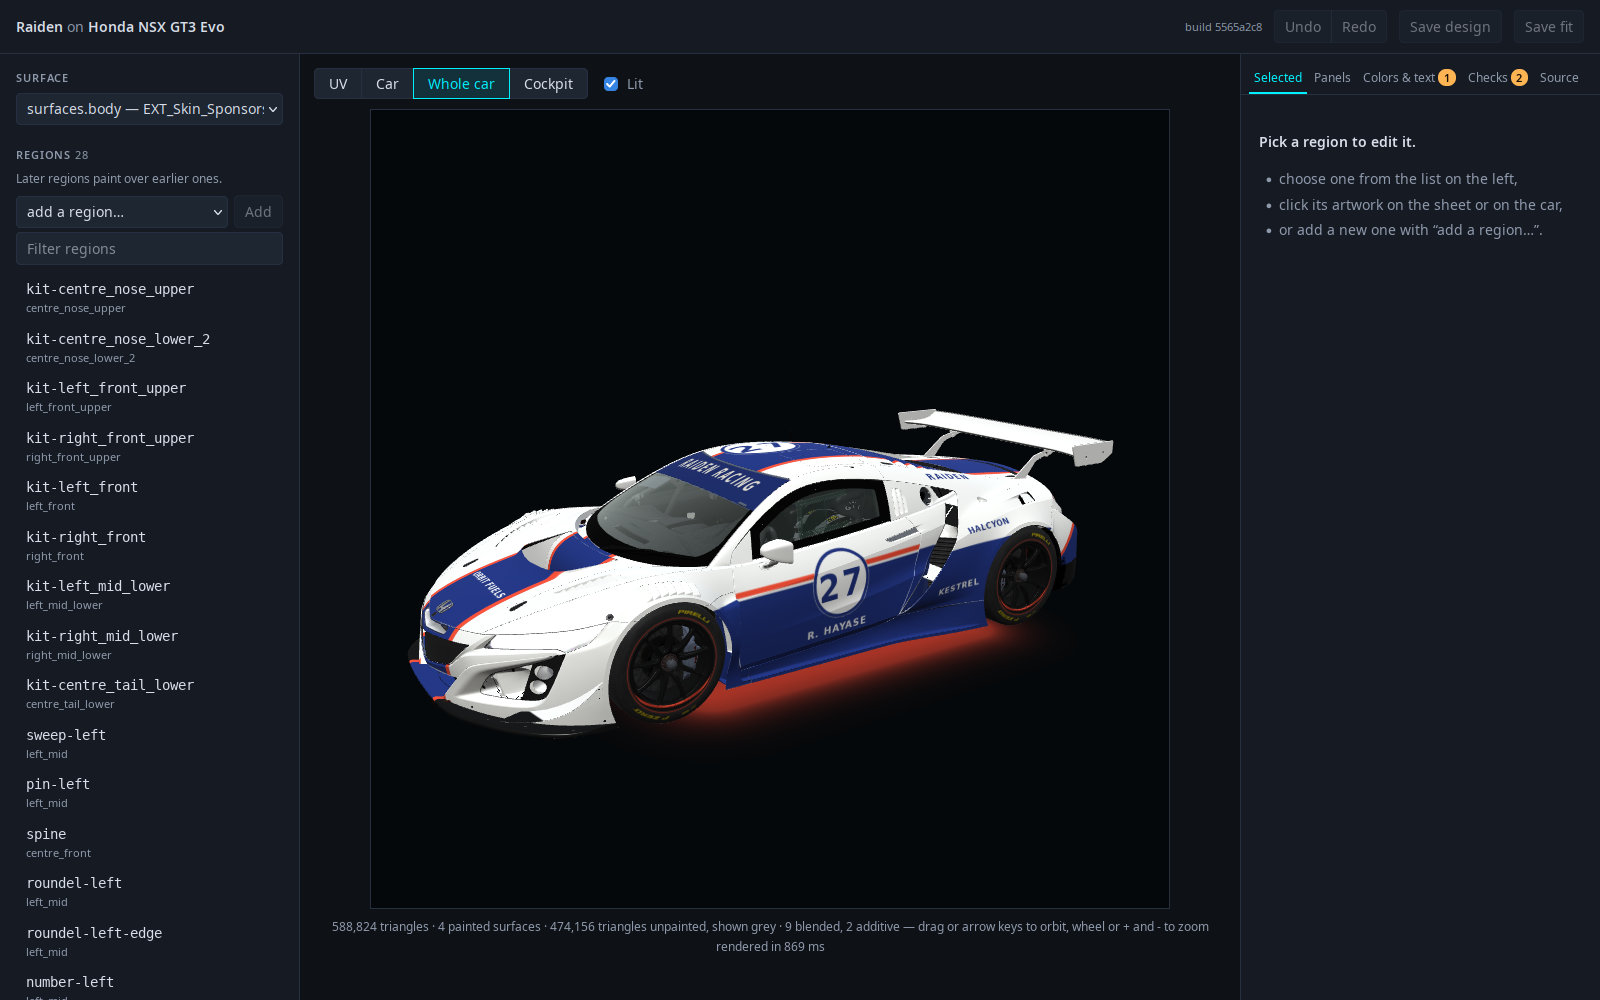
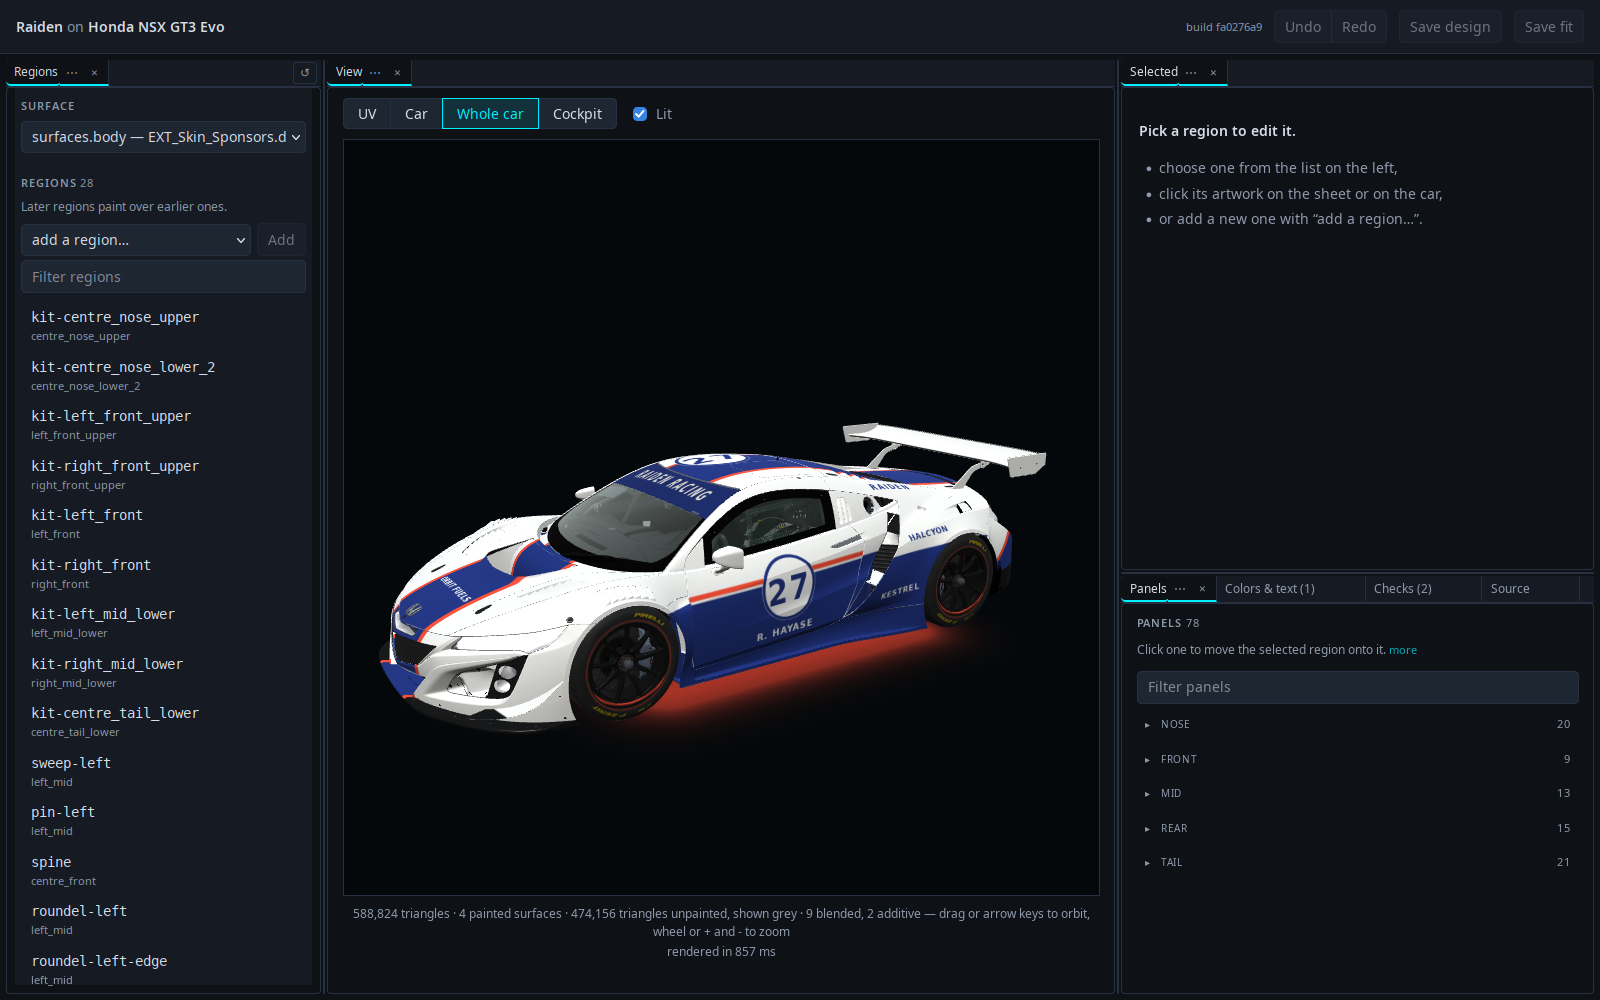
Tile the editor with mullion on a wide window with a mouse
The tabbed right-hand column still made moving a region to a panel a
three-step gesture: pick the region, switch to Panels with the inspector
out of sight, pick the panel. On a window with room, mullion now lays the
same elements out as panes — the regions, the view, and the inspector
stacked over Panels, Colors & text, Checks and Source — which a person can
split, stack, resize and close, and the layout is kept between visits.
Below mullion's threshold the page is the three columns as before, the
same elements put back under their own parents.

The side panes are hidden by an attribute of their own rather than
`hidden`, which would have left a tiled pane showing nothing. Counts move
into the panes' titles as well as the untiled tab bar. The 3D view redraws
when its canvas resizes rather than only when the window does, since a
divider resizes it while the window stays put.

Headless Firefox reports no pointer, so the browser suite was driving the
untiled page; its profile now reports a mouse, so the suite drives what a
desktop gets, and the one test about the untiled column asks for it with
?panes=0. mullion is served from node_modules through the import map like
the other browser dependencies, and AGENTS.md counts it.

diff --git a/src/ui/app.js b/src/ui/app.js
@@ -19,6 +19,7 @@ import { createViewer, openingView, unpack, unpackModel } from './view3d.js';
 import { treatmentOptions } from './fields.js';
 import { paletteUses, tokenUses, danglingNames, eachRegion, interpolates, isAColor } from './uses.js';
 import { applyDesignOp, applyFitOp, opSetConstraint, placedAt } from './ops.js';
+import { createPanes } from 'mullion';
 
 const $ = (s) => document.querySelector(s);
 const VIEW = 1000;
@@ -176,6 +177,32 @@ $('.sidetabs').onclick = (e) => {
   if (tab) showSide(tab.dataset.side);
 };
 showSide(state.side);
+
+// Tiled, on a window with room for it: the same elements, moved into panes a
+// person can split, stack and resize, and put back as the three columns above
+// when the window narrows. Not under the tests' fake DOM, which has no media
+// queries to ask.
+state.panes = globalThis.matchMedia ? createPanes({
+  root: $('#panes'),
+  catalog: ['left', 'canvas', 'pane-selected', 'pane-panels', 'pane-colors', 'pane-checks', 'pane-source'],
+  mode: 'edit',
+  on: true,
+  store: 'liverykit:panes',
+  version: 1,
+  reset: '↺',
+  // The inspector over the other side panes rather than stacked with them,
+  // so the panel a region is moved to can be picked with the region in view.
+  layouts: {
+    edit: {
+      dir: 'row', size: [0.2, 0.5, 0.3], kids: [
+        { tabs: ['left'] },
+        { tabs: ['canvas'] },
+        { dir: 'col', size: [0.55, 0.45], kids: [
+          { tabs: ['pane-selected'] },
+          { tabs: ['pane-panels', 'pane-colors', 'pane-checks', 'pane-source'] }] }],
+    },
+  },
+}) : null;
 
 // Hovering a panel shows where it is — on the sheet and on the car — WITHOUT
 // selecting anything or touching the fit. Finding out where `centre_mid_lower_4`
@@ -681,7 +708,7 @@ async function refresh() {
     // stopped responding to everything.
     status(`render failed: ${e.message}`);
     $('#notes').innerHTML = `<div class="note">! ${esc(e.message)}</div>`;
-    $('#notecount').textContent = '1';
+    tally('pane-checks', 'Checks', $('#notecount'), 1);
     return;
   }
   state.placed = out.placed;
@@ -709,7 +736,7 @@ async function refresh() {
   $('#notes').innerHTML = notes.map((n) => `<div class="note">! ${esc(n.text)}</div>`).join('');
   // Counted on the tab, since they are in a tab: nothing that went wrong may
   // be out of sight without a sign that it is there.
-  $('#notecount').textContent = notes.length ? String(notes.length) : '';
+  tally('pane-checks', 'Checks', $('#notecount'), notes.length);
   // Derived from the stacks rather than trusted from the markup, so there is
   // one source of truth for whether there is anything to go back to.
   updateUndoButtons();
@@ -918,11 +945,10 @@ function drawIdentity() {
 function drawDangling() {
   const el = $('#dangling');
   if (!el) return;
-  $('#danglingcount').textContent = '';
-  if (state.lossy.length) { el.innerHTML = ''; return; }
+  if (state.lossy.length) { el.innerHTML = ''; tally('pane-colors', 'Colors & text', $('#danglingcount'), 0); return; }
 
   const { colors, tokens } = danglingNames(state.design, state.treatments);
-  if (colors.length + tokens.length) $('#danglingcount').textContent = String(colors.length + tokens.length);
+  tally('pane-colors', 'Colors & text', $('#danglingcount'), colors.length + tokens.length);
   el.innerHTML = [
     ...tokens.map((t) => `<div class="note">Nothing gives <code>${esc(t.token)}</code> a value, so
       ${esc(t.by.join(', '))} ${t.by.length > 1 ? 'render' : 'renders'} with a hole where it should be.</div>`),
@@ -1302,20 +1328,49 @@ function cssEscape(s) {
 export function selectRegion(id) {
   if (!id) return;
   state.selected = id;
-  // Not from the panel list: there the next click is the panel to move it to.
-  if (state.side !== 'panels') showSide('selected');
+  revealInspector();
   drawRegions();
   drawOverlay();
   drawInspector();
   drawPanels();
 }
 
+// An attribute of our own rather than `hidden`: tiled, every one of these is a
+// pane, and one hidden for being the column's tab not in front would be a
+// pane showing nothing.
 function showSide(name) {
   state.side = name;
   for (const n of ['selected', 'panels', 'colors', 'checks', 'source']) {
     $(`#side-${n}`).setAttribute('aria-selected', String(n === name));
-    setHidden($(`#pane-${n}`), n !== name);
+    if (n === name) $(`#pane-${n}`).removeAttribute('data-side-off');
+    else $(`#pane-${n}`).setAttribute('data-side-off', '');
   }
+  state.panes?.present(`pane-${name}`, { focus: false });
+}
+
+/**
+ * Bring the inspector into view after a pick — but not over the panel list.
+ * Picking a region and then the panel to move it to is one gesture, and
+ * covering the list between the two clicks breaks it.
+ */
+function revealInspector() {
+  const p = state.panes;
+  if (!p?.tiled()) {
+    if (state.side !== 'panels') showSide('selected');
+    return;
+  }
+  const leafOf = (node, id) => (node.tabs
+    ? (node.tabs.includes(id) ? node : null)
+    : node.kids.map((k) => leafOf(k, id)).find(Boolean) ?? null);
+  const layout = p.layout();
+  const together = layout && leafOf(layout, 'pane-selected') === leafOf(layout, 'pane-panels');
+  if (!(together && p.visible('pane-panels'))) p.present('pane-selected', { focus: false });
+}
+
+/** A count on a side pane's tab, in the column's tab bar and in the tiler's. */
+function tally(pane, title, el, n) {
+  el.textContent = n ? String(n) : '';
+  state.panes?.setTitle(pane, n ? `${title} (${n})` : title);
 }
 
 function drawOverlay() {

diff --git a/src/ui/index.html b/src/ui/index.html
@@ -3,6 +3,7 @@
 <head>
 <meta charset="utf-8">
 <title>liverykit — fit</title>
+<link rel="stylesheet" href="/vendor/mullion/panes.css">
 <link rel="stylesheet" href="/style.css">
 <!--
   So that `uses.js` can write `import { colord } from 'colord'` and have it mean
@@ -15,7 +16,8 @@
   "imports": {
     "colord": "/vendor/colord/index.mjs",
     "colord/plugins/names": "/vendor/colord/plugins/names.mjs",
-    "ac-dds/decode": "/vendor/ac-dds/decode.js"
+    "ac-dds/decode": "/vendor/ac-dds/decode.js",
+    "mullion": "/vendor/mullion/panes.js"
   }
 }
 </script>
@@ -41,8 +43,14 @@
     <button id="proposal-discard" class="proposal-btn discard">Discard</button>
   </div>
 
+  <!-- Where mullion draws the layout on a wide window with a mouse. Each
+       data-pane below is moved into it, ids and all, and put back under its
+       own parent when the window narrows: the three columns are what you get
+       then, and they are the same elements. -->
+  <div id="panes"></div>
+
   <main>
-    <aside id="left">
+    <aside id="left" data-pane data-pane-title="Regions" data-pane-min="220">
       <h2>Surface</h2>
       <select id="surface"></select>
 
@@ -56,7 +64,7 @@
       <ul id="regions"></ul>
     </aside>
 
-    <section id="canvas">
+    <section id="canvas" data-pane data-pane-title="View" data-pane-min="320">
       <div class="tabs">
         <span class="group" role="group" aria-label="View">
           <button id="tab-uv" class="tab on">UV</button>
@@ -105,11 +113,11 @@
         <button id="side-source" role="tab" data-side="source">Source</button>
       </nav>
 
-      <section id="pane-selected" class="pane" role="tabpanel">
+      <section id="pane-selected" class="sidepane" role="tabpanel" data-pane data-pane-title="Selected" data-pane-min="240">
         <div id="inspector" class="empty"></div>
       </section>
 
-      <section id="pane-panels" class="pane" role="tabpanel" hidden>
+      <section id="pane-panels" class="sidepane" role="tabpanel" data-pane data-pane-title="Panels" data-pane-min="240" data-side-off>
         <h2>Panels <span id="panelcount" class="muted"></span></h2>
         <details class="hint"><summary>Click one to move the selected region onto it.</summary>
           Hover to see where it is. Tags come from the model — side, section,
@@ -118,7 +126,7 @@
         <ul id="panels"></ul>
       </section>
 
-      <section id="pane-colors" class="pane" role="tabpanel" hidden>
+      <section id="pane-colors" class="sidepane" role="tabpanel" data-pane data-pane-title="Colors &amp; text" data-pane-min="240" data-side-off>
         <h2>Palette</h2>
         <details class="hint"><summary>Named colors, used by name.</summary>
           Changing one changes everything using it, and renaming one renames
@@ -143,7 +151,7 @@
         <div id="dangling"></div>
       </section>
 
-      <section id="pane-checks" class="pane" role="tabpanel" hidden>
+      <section id="pane-checks" class="sidepane" role="tabpanel" data-pane data-pane-title="Checks" data-pane-min="240" data-side-off>
         <div id="notes"></div>
 
         <h2>On this car</h2>
@@ -172,7 +180,7 @@
         <ul id="bindings"></ul>
       </section>
 
-      <section id="pane-source" class="pane" role="tabpanel" hidden>
+      <section id="pane-source" class="sidepane" role="tabpanel" data-pane data-pane-title="Source" data-pane-min="240" data-side-off>
         <h2>Fit</h2>
         <p class="hint">Where this car wants the artwork.</p>
         <pre id="fitjson">{}</pre>

diff --git a/src/ui/style.css b/src/ui/style.css
@@ -61,9 +61,10 @@ details.hint > summary::-webkit-details-marker { display: none; }
 details.hint > summary::after { content: ' more'; color: var(--accent); opacity: 0.7; font-size: 11px; }
 details.hint[open] > summary::after { content: ' less'; }
 details.hint[open] > summary { margin-bottom: 4px; }
-aside .row { display: flex; gap: 6px; align-items: center; }
-aside .row > input, aside .row > select { flex: 1; min-width: 0; }
-aside input:not([type]), aside input[type=search] {
+#left .row, .sidepane .row { display: flex; gap: 6px; align-items: center; }
+#left .row > input, #left .row > select,
+.sidepane .row > input, .sidepane .row > select { flex: 1; min-width: 0; }
+input:not([type]), input[type=search] {
   width: 100%; font: inherit; color: var(--ink);
   background: #1e2632; border: 1px solid var(--line); border-radius: 5px; padding: 5px 10px;
 }
@@ -151,7 +152,7 @@ li.derived .id { color: var(--muted); }
 .tab { padding: 4px 14px; }
 .tab.on { border-color: var(--accent); color: var(--accent); background: #12313a; }
 .toggle { display: inline-flex; gap: 6px; align-items: center; color: var(--muted); cursor: pointer; }
-#viewnote { margin: 8px 0 0; }
+#viewnote { margin: 8px 0 0; text-align: center; }
 #canvashint { margin: 2px 0 0; }
 #texture svg { width: 100%; height: 100%; display: block; }
 /* The texture is a backdrop; every click belongs to the overlay above it. */
@@ -246,3 +247,25 @@ button.rot.on { border-color: var(--accent); color: var(--accent); background: #
 .proposal-btn.accept { background: #005f73; border-color: var(--accent); color: #ffffff; }
 .proposal-btn.discard { background: #5f1a2a; border-color: var(--hot); color: #ffffff; }
 
+
+/* --- tiled ---------------------------------------------------------------- */
+/* mullion draws the layout; these map its colors onto the editor's and say
+   which of the editor's boxes take the room a pane has. */
+:root {
+  --pane-fg: var(--ink); --pane-bg: var(--bg); --pane-dim: var(--muted);
+  --pane-panel: var(--panel); --pane-line: var(--line); --pane-held: var(--accent);
+}
+/* Emptied of its columns, which are panes now; left in place so they have a
+   parent to go back to when the window narrows. */
+body.tiled > main { display: none; }
+/* The header full width, as untiled; the panes inset a little under it. */
+body.tiled { padding: 0; }
+body.tiled #panes { margin: 6px; }
+body.tiled .sidetabs { display: none; }
+body:not(.tiled) [data-side-off] { display: none; }
+body.tiled .panebody > aside { flex: 1 1 auto; min-height: 0; overflow: visible; border: 0; }
+body.tiled #left, body.tiled .sidepane { padding: 10px 6px 0; }
+/* A container of its own size, so the square stage can be the largest that
+   fits whichever way the pane is shaped. */
+body.tiled #canvas { container-type: size; padding: 10px 6px 0; }
+body.tiled #stage { width: min(100cqw, 100cqh - 110px); }

diff --git a/src/ui/view3d.js b/src/ui/view3d.js
@@ -2015,7 +2015,10 @@ export function createViewer(canvas) {
         Object.assign(cam, next);
         draw();
       };
-      window.addEventListener('resize', draw);
+      // The canvas, not the window: in a tiled editor a divider resizes it
+      // while the window stays put, and the car stretched until the next drag.
+      if (typeof ResizeObserver === 'function') new ResizeObserver(() => draw()).observe(canvas);
+      else window.addEventListener('resize', draw);
     },
 
     draw,

diff --git a/AGENTS.md b/AGENTS.md
@@ -129,15 +129,18 @@ JSON. Revert your fix, watch the new test fail, then put it back.
 
 ## Code
 
-No build step, no transpiler, ESM throughout, five runtime dependencies
-(`sharp`, `colord`, `ac-cardata`, `ac-kn5` and `ac-dds`). Please keep it small — but small is the
+No build step, no transpiler, ESM throughout, six runtime dependencies
+(`sharp`, `colord`, `ac-cardata`, `ac-kn5`, `ac-dds` and `mullion`). Please keep it small — but small is the
 goal, not zero: `colord` replaced a regex that called `red` an unresolved palette
 name and told `#00F0FF` from `gulf-bleu` by its first character, which is not a
 wheel worth rebuilding, and `ac-cardata`, `ac-kn5` and `ac-dds` read and write
 `data.acd`, the kn5 model and DDS, formats shared with other tools rather than
-reimplemented here.
+reimplemented here. `mullion` tiles the editor on a wide window with a mouse —
+splits, tabs and dividers over the page's own elements, which it puts back as
+the three-column page when the window narrows — and has no dependencies of its
+own.
 
-The browser gets `colord` and `ac-dds/decode` through an **import map** in
+The browser gets `colord`, `ac-dds/decode` and `mullion` through an **import map** in
 `src/ui/index.html`, and the server hands over each package's own ESM from
 `node_modules`. So a bare specifier means the same package on both sides and the
 editor and the tests run the identical file. That is the pattern to copy if the

diff --git a/README.md b/README.md
@@ -4,7 +4,7 @@
 
 Generate [Assetto Corsa](https://www.assettocorsa.net/) car liveries from code.
 
-![The fitting editor: the Raiden livery on the Honda NSX GT3 Evo, white with an indigo sweep and spine, a number roundel on the door and a vermilion underglow. The design's regions on the left, the whole car lit in 3D in the middle, and on the right a prompt to pick a region to edit.](docs/images/editor.png)
+![The fitting editor: the Raiden livery on the Honda NSX GT3 Evo, white with an indigo sweep and spine, a number roundel on the door and a vermilion underglow. The design's regions on the left, the whole car lit in 3D in the middle, and on the right a prompt to pick a region to edit, over the list of panels to move it to.](docs/images/editor.png)
 
 *The fitting editor: a design described as named regions over a palette, fitted onto the car's own model.*
 

diff --git a/CONTRIBUTING.md b/CONTRIBUTING.md
@@ -90,8 +90,9 @@ never load it.
 
 ## Code
 
-No build step, no transpiler, ESM throughout, one runtime dependency (`sharp`).
-Please keep it that way.
+No build step, no transpiler, ESM throughout, and few runtime dependencies —
+[AGENTS.md](AGENTS.md#code) lists them and why each earns its place. Please keep
+it that way.
 
 `npm test` before opening a PR. The tests check the things that fail
 *silently* — DDS headers, mip chain lengths, ZIP integrity, case collisions —
